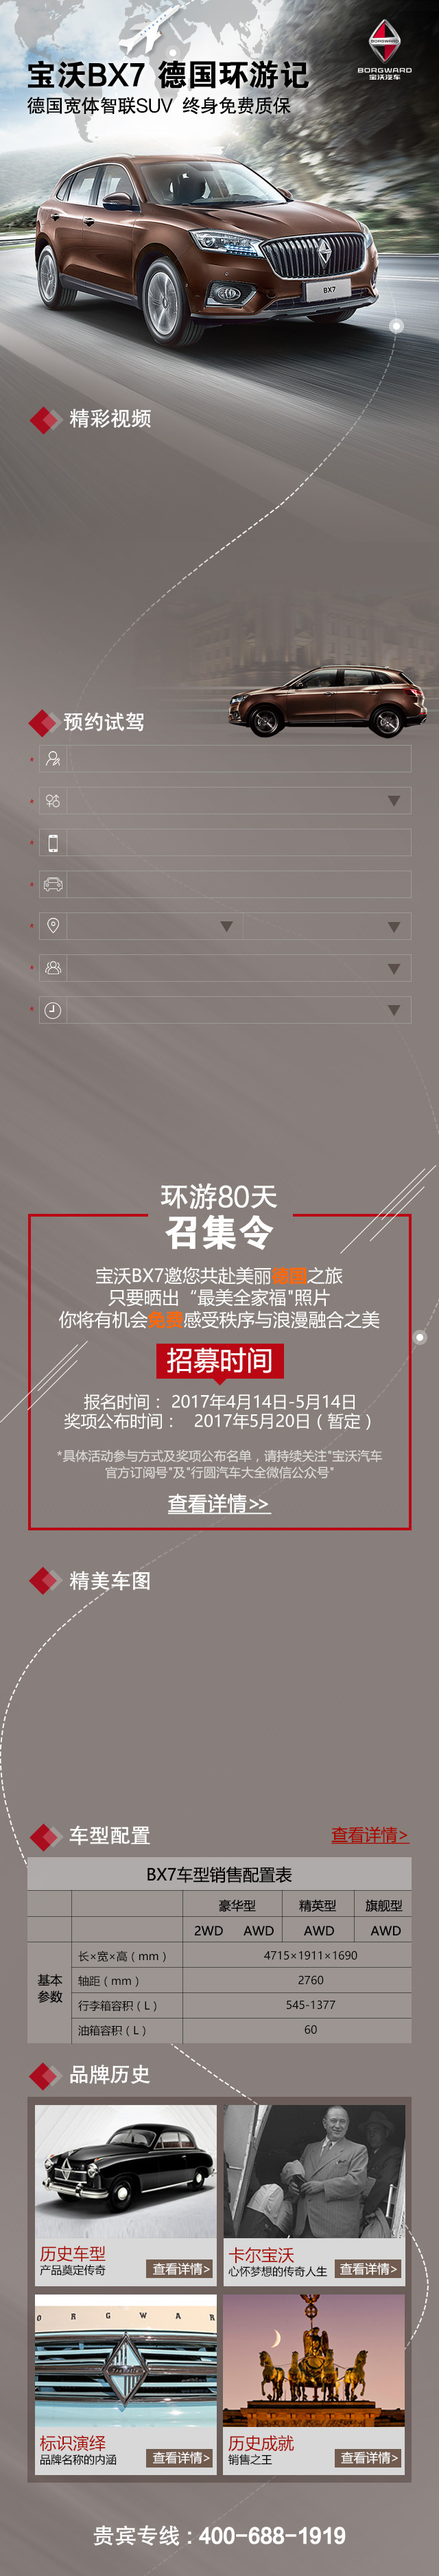
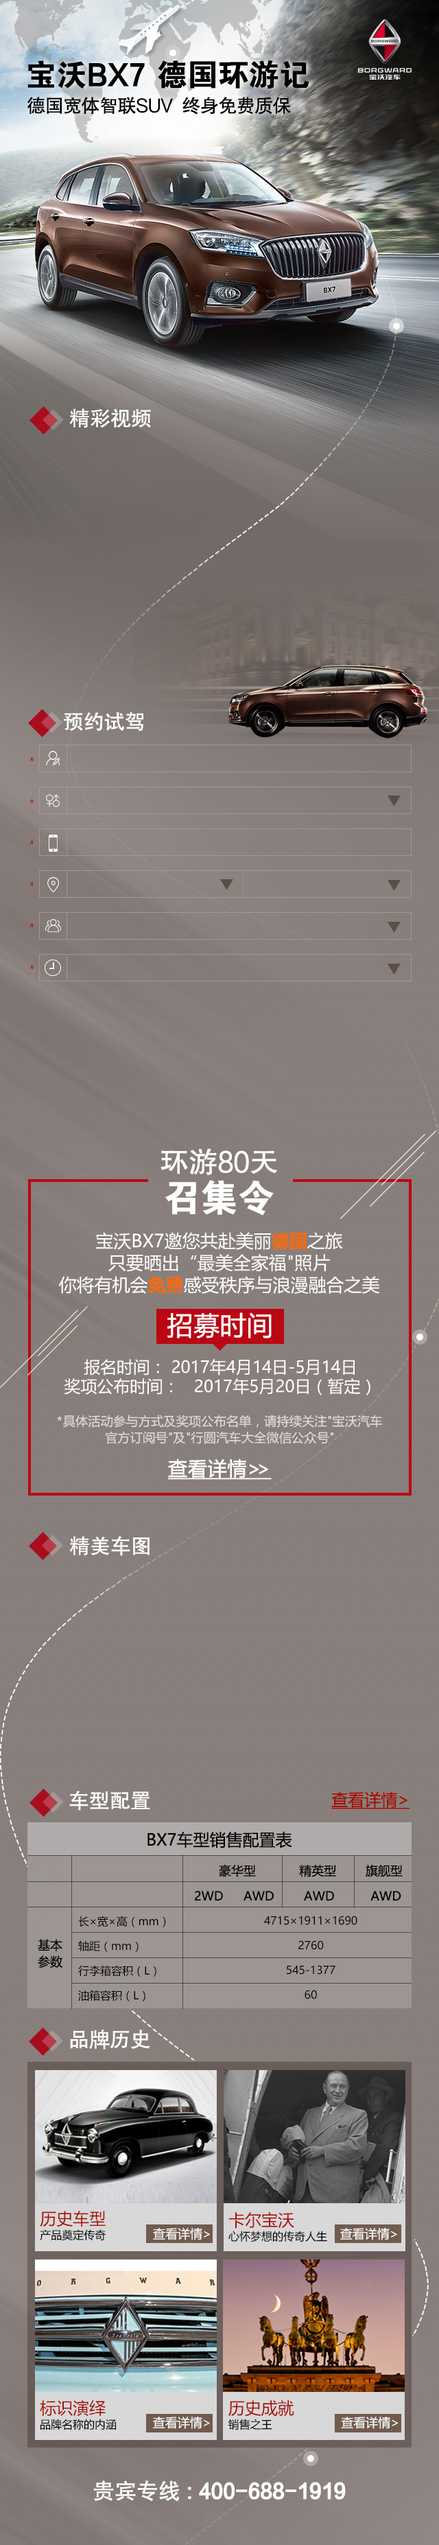
更新

diff --git a/borgwardbx7/bwo_wap.html b/borgwardbx7/bwo_wap.html
@@ -14,13 +14,13 @@
     <script src="mb/js/jquery-1.10.2.min.js" type="text/javascript"></script>
     <script src="mb/js/adaptational.js" type="text/javascript"></script>
     <script type="text/javascript" src="mb/js/swiper.jquery.min.js"></script>
-    <!-- <script type="text/javascript" src="pc/js/login.js"></script>  -->
+    <script type="text/javascript" src="pc/js/login.js"></script> 
 </head>
 
 <body>
 <div class="content">
     <div class="cont01">
-        <a>进入官网 > </a>
+        <a href="http://www.marketing-borgward.com/2017/bx720170220/">进入官网 > </a>
         <h2>贵宾专线：400-688-1919</h2>
         <div class="ewm">
             <dl>
@@ -45,48 +45,43 @@
     <!-- 注册 -->
     <div class="cont03">
         <ul>
-            <li><input type="text" placeholder="请填写姓名"></li>
+            <li><input name="name" type="text" placeholder="请填写姓名"></li>
             <li>
                 <select>
-                    <option>女</option>
-                    <option>男</option>
+                    <option name="sexId" value="2">女</option>
+                    <option name="sexId" value="1" checked>男</option>
                 </select>
             </li>
-            <li><input type="text" placeholder="请填写手机"></li>
-            <li>
-                <select>
-                    <option>请选择车类型</option>
-                </select>
-            </li>
+            <li><input type="text" name="phone" type="text" placeholder="请填写手机"></li>
             <li>
                 <span>
-                    <select>
+                    <select id="province" name="provinceId">
                         <option>请选择省份</option>
                     </select>
                 </span>
                 <span>
-                    <select>
+                    <select id="city" name="cityId">
                         <option>请选择城市</option>
                     </select>
                 </span>
             </li>
             <li style="margin-top:-0.1rem">
-                <select>
+                <select id="dealer" name='dealer'>
                     <option>请选择经销商</option>
                 </select>
             </li>
             <li>
-                <select>
+                <select id="buycartime" name="bytime">
                     <option>请选择时间</option>
                 </select>
             </li>
         </ul>
-        <p><input type="checkbox"><i>*</i>我已阅读并接受汽车大全隐私条款：<br/>您的个人资料有可能会提交至厂商的授权经销商或汽车大全客服，与您进一步沟通试驾、购车等事宜。</p>
+        <p><input checked type="checkbox"><i>*</i>我已阅读并接受汽车大全隐私条款：<br/>您的个人资料有可能会提交至厂商的授权经销商或汽车大全客服，与您进一步沟通试驾、购车等事宜。</p>
         <div class="btns">确认提交 > </div>
     </div>
     <!-- 80天召集令 -->
     <div class="cont04">
-        <a></a>
+        <a href="http://mp.weixin.qq.com/s/utGw59-aL1k5NYDGS08nFA"></a>
     </div>
     <!-- 精美车图 -->
     <div class="cont05">
@@ -110,10 +105,10 @@
     <!-- 品牌历史 -->
     <div class="cont07">
         <ul>
-            <li><a></a></li>
-            <li><a></a></li>
-            <li><a></a></li>
-            <li><a></a></li>
+            <li><a href="http://www.borgward.com.cn/baowo1"></a></li>
+            <li><a href="http://www.borgward.com.cn/brand_personage"></a></li>
+            <li><a href="http://www.borgward.com.cn/brand_ideas"></a></li>
+            <li><a href="http://www.borgward.com.cn/brand_success"></a></li>
         </ul>
     </div>
 </div>
@@ -132,6 +127,235 @@
         prevButton: '.swiper-button-prev'
     });
     //end by song
+    var ymurl = "https://xy.qichedaquan.com";  
+    $.getJSON(ymurl+"/medias/public/index.php/port/Bwuserbx7/Ltbuycartime", {buycartime:1}, function(end){ //循环输出，并追加到购买时间
+        //console.log(end);
+        $.each(end,function(id,val){ 
+            var option_html = '<option value='+val.id+'>'+val.timename+'</option>';
+            $("#buycartime").append(option_html);
+        });
+         
+    });
+    
+    $(".btns").click(function(){
+        //名字不为空
+        var name = $("input[name='name']").val();
+        if(name == "" || name == "姓名" ){
+            alert("请输入姓名");
+            $("input[name='name']").focus();
+            return false;
+        }
+        if (!name.match(/^([\u4E00-\u9FA5]{2,4}$)|(^[a-zA-Z]{1,8}$)/)){ 
+            alert("抱歉，姓名需要输入2-4位汉字或八个英文字母");
+            return false;
+        }
+        //性别，必选
+        var sex = $("input[name='sexId']:checked").val();
+      
+        //手机号验证
+        var phone = $("input[name='phone']").val();
+        if (phone == "" || phone == "手机号") { 
+            alert("手机号码不能为空！");  
+           // $("input[name='phone']").focus(); 
+            return false; 
+        }  
+        if (!phone.match(/^(((1[3|5|7|8][0-9]{1}))+\d{8})$/)) { 
+            alert("手机号码格式不正确！");  
+            //$("input[name='phone']").focus(); 
+            return false; 
+        }
+      
+
+        //省，必选
+        var province = $("select[name='provinceId']").val();
+        //console.log(province);
+        if(province == "0"){
+            alert("请选择省份");
+           // $("select[name='provinceId']").focus();
+            return false; 
+        }
+        //市，必选
+        var city = $("select[name='cityId']").val(); 
+        if(city == "0"){
+            alert("请选择城市");
+           // $("select[name='cityId']").focus();
+            return false; 
+        }
+        //经销商，必选
+        var dealer = $("select[name='dealer']").val(); 
+        if(dealer == "0"){
+            alert("请选择经销商");
+            //$("select[name='dealer']").focus();
+            return false; 
+        }
+        //购买时间
+        var buycartime = $("#buycartime").val();
+         if(buycartime == "0"){
+            alert("请选择购买时间");
+            //$("select[name='dealer']").focus();
+            return false; 
+        }
+        var dealer_name = province+","+city+","+dealer;
+        //
+        var fromwh = $("input[name='fromwh']").val();
+       // console.log(fromwh);
+        var encrystr = $("input[name='encrystr']").val();
+        $.getJSON(ymurl+"/medias/public/index.php/port/Bwuserbx7/Comreg", {buycartime:buycartime, username:name,thesex:sex,numberphone:phone,dealer:dealer_name,model:'66',key:encrystr,fromwh:fromwh,pjid:'36'}, function(json){ 
+            //console.log(json);
+            if(jQuery.type(json)=="string"){
+                var json = eval('('+json+')'); //字符串转为json格式
+            } 
+            alert(json.msg); 
+            if(json.start=='2003'){
+                $("input[name='name']").val("");
+                $("input[name='phone']").val("");
+                return;
+                //信息同步到宝沃bx7
+                 var provincename = $("select[name='provinceId']").find("option:selected").text(); //获取省份名称
+                var cityname = $("select[name='cityId']").find("option:selected").text(); //获取城市名称
+                var dealername =  $("select[name='dealer']").find("option:selected").text(); //获取经销商名称
+                var carname = 'BX7'; //车型名称 
+                $.ajax({
+                    type:"POST",
+                    url:ymurl+"/201704/borgwardbx7/bw5act.php",
+                    data:{name:name,sex:newsex,tel:phone,province:provincename,city:cityname,dealer_name:dealername,car_name:carname,media_id:'48',activity_id:124},
+                    dataType:'json',
+                    success:function(end){
+                        console.log(1);
+                        //console.log(end);
+                    },
+                    error:function(err){
+                        console.log(2);
+                       // console.log(err);
+                    }
+                })
+            }
+        })
+     
+    })       
+})
+//微信分享
+    
+    var url = ymurl+"/weixin/jssdk/wx_token.php";
+    $.post(url,function(msg){
+        if(msg.start == 0){ 
+            return alert(msg.message);
+        }
+        
+        var title ='宝沃BX5撼世登场'; // 分享标题
+        var link =ymurl+'/201703/borgwardbx5';
+        var desc = '宝沃BX5全新上市'; // 分享描述
+        var imgUrl = ymurl+'/201703/borgwardbx5/images/sharewx.jpg'; 
+        var wx_appId = msg.appId; 
+        var wx_timestamp = msg.timestamp;
+        var wx_nonceStr = msg.nonceStr;
+        var wx_signature = msg.signature;
+        
+                /*
+             * 注意：
+             * 1. 所有的JS接口只能在公众号绑定的域名下调用，公众号开发者需要先登录微信公众平台进入“公众号设置”的“功能设置”里填写“JS接口安全域名”。
+             * 2. 如果发现在 Android 不能分享自定义内容，请到官网下载最新的包覆盖安装，Android 自定义分享接口需升级至 6.0.2.58 版本及以上。
+             * 3. 常见问题及完整 JS-SDK 文档地址：http://mp.weixin.qq.com/wiki/7/aaa137b55fb2e0456bf8dd9148dd613f.html
+             *
+             * 开发中遇到问题详见文档“附录5-常见错误及解决办法”解决，如仍未能解决可通过以下渠道反馈：
+             * 邮箱地址：weixin-open@qq.com
+             * 邮件主题：【微信JS-SDK反馈】具体问题
+             * 邮件内容说明：用简明的语言描述问题所在，并交代清楚遇到该问题的场景，可附上截屏图片，微信团队会尽快处理你的反馈。
+             */
+            wx.config({
+                debug: false,
+                appId: wx_appId,
+                timestamp: wx_timestamp,
+                nonceStr: wx_nonceStr,
+                signature: wx_signature,
+                jsApiList: [
+                    // 所有要调用的 API 都要加到这个列表中
+                    'onMenuShareTimeline',//分享到朋友圈
+                    'onMenuShareAppMessage',//分享给朋友
+                    'onMenuShareQQ',//分享到QQ
+                    'onMenuShareQZone',//分享到QQ空间
+                    'onMenuShareWeibo'//分享到腾讯微博
+                ]
+            });
+           
+           wx.ready(function () {
+                // 在这里调用 API
+                
+                //分享到朋友圈
+                wx.onMenuShareTimeline({
+                    title:title, // 分享标题
+                    link: link, // 分享链接
+                    desc: desc, // 分享描述
+                    imgUrl:imgUrl, // 分享图标
+                    success: function () {
+                        // 用户确认分享后执行的回调函数
+                    },
+                    cancel: function () {
+                        // 用户取消分享后执行的回调函数
+                    }
+                });
+                
+                //分享到朋友
+                wx.onMenuShareAppMessage({
+                    title: title, // 分享标题
+                    desc: desc, // 分享描述
+                    link: link, // 分享链接
+                    imgUrl: imgUrl, // 分享图标
+                    type: '', // 分享类型,music、video或link，不填默认为link
+                    dataUrl: '', // 如果type是music或video，则要提供数据链接，默认为空
+                    success: function () {
+                        // 用户确认分享后执行的回调函数
+                    },
+                    cancel: function () {
+                        // 用户取消分享后执行的回调函数
+                    }
+                });
+                
+                //分享到QQ
+                wx.onMenuShareQQ({
+                    title: title, // 分享标题
+                    desc: desc, // 分享描述
+                    link: link, // 分享链接
+                    imgUrl: imgUrl, // 分享图标
+                    success: function () {
+                        // 用户确认分享后执行的回调函数
+                    },
+                    cancel: function () {
+                        // 用户取消分享后执行的回调函数
+                    }
+                });
+                
+                //分享到QQ空间
+                wx.onMenuShareQZone({
+                    title: title, // 分享标题
+                    desc: desc, // 分享描述
+                    link: link, // 分享链接
+                    imgUrl: imgUrl, // 分享图标
+                    success: function () { 
+                       // 用户确认分享后执行的回调函数
+                    },
+                    cancel: function () { 
+                        // 用户取消分享后执行的回调函数
+                    }
+                });
+                
+                //分享到腾讯微博
+                wx.onMenuShareWeibo({
+                    title: title, // 分享标题
+                    desc: desc, // 分享描述
+                    link: link, // 分享链接
+                    imgUrl: imgUrl, // 分享图标
+                    success: function () {
+                        // 用户确认分享后执行的回调函数
+                    },
+                    cancel: function () {
+                        // 用户取消分享后执行的回调函数
+                    }
+                });
+
+            });
+            
+    },'json')
    //百度统计
 	var _hmt = _hmt || [];
 	(function() {

diff --git a/borgwardbx7/mb/css/bwos.css b/borgwardbx7/mb/css/bwos.css
@@ -16,7 +16,7 @@ input:-ms-input-placeholder{
 
 .content{position:relative;background: url(../images/bigBg.jpg) no-repeat;height:93.8rem; background-size:100%;}
 .cont01{float:left;margin-top:4.625rem;font-size:0.65rem;width:14.0rem;margin-left:1.0rem;}
-.cont01 a{text-decoration: underline;}
+.cont01 a{text-decoration: underline;color:#000;}
 .cont01 h2{float:right;margin-top:6.6rem;font-size:12px;color:#fff;}
 .cont01 .ewm{float:right;margin-top:7rem;;position: absolute;right:1.0rem}
 .cont01 .ewm dl{float:left; text-align: center; margin-left:0.25rem;}
@@ -37,11 +37,11 @@ input:-ms-input-placeholder{
 .cont03 li span select{padding-left:0.25rem;font-size:12px;height:1rem;width:100%;color:#fff; line-height:1rem;background: none}
 .cont03 p{font-size:12px;color:#cac6c5;padding-left:0.25rem;}
 .cont03 p i{color:#f00}
-.btns{float:left;width:13.25rem;margin-top:0.35rem;font-size:0.75rem;line-height:1.125rem;height:1.125rem;margin-left:0.375rem; background: #ba0714; text-align: center;color:#fff;}
-.cont04{position: absolute;top:54.15rem;width:14.0rem;margin-left:1.0rem;}
+.btns{float:left;width:13.25rem;margin-top:1.25rem;font-size:0.75rem;line-height:1.125rem;height:1.125rem;margin-left:0.375rem; background: #ba0714; text-align: center;color:#fff;}
+.cont04{position: absolute;top:53rem;width:14.0rem;margin-left:1.0rem;}
 .cont04 a{height:1.0rem;display: inline-block;margin-left:4.77rem;width:4.0rem;}
 
-.cont05{position: absolute;top:57.6rem;width:90%;margin-left:5%;}
+.cont05{position: absolute;top:56.6rem;width:90%;margin-left:5%;}
 .swiper-containers{width:100%;margin-left:auto;margin-right:0;margin-top:0.6rem;overflow:hidden;z-index:1;position:relative;}
 /*swiper*/
 .swiper-containers{width:100%;margin-left:auto;margin-right:0;margin-top:0.6rem;overflow:hidden;z-index:1;position:relative;}
@@ -52,14 +52,15 @@ input:-ms-input-placeholder{
 .swiper-pagination .swiper-pagination-bullet{background: #7a7c7b;width:5px;height:5px;text-align:center;margin:0 5px;}
 .swiper-pagination .swiper-pagination-bullet-active{background: #fff;}
 .swiper-containers .swiper-button-prev{background-image: url(../images/left.png);width:1.375rem;height:3.65rem;background-size:1.375rem 3.65rem;left:-1px;margin-top:-1.9rem;}
-.swiper-containers .swiper-button-next{background-image: url(../images/right.png);width:1.375rem;height:3.65rem;background-size:1.375rem 3.65rem;right:-2px;margin-top:-1.9rem;}
+.swiper-containers .swiper-button-next{background-image: url(../images/right.png);width:1.375rem;height:3.65rem;background-size:1.375rem 3.65rem;right:-1px;margin-top:-1.9rem;}
 
 
 .cont06{position: absolute;top:66.45rem;width:14.0rem;margin-left:1.0rem;}
 .cont06 a{display: inline-block;height:7.75rem;width:100%;}
 
-.cont07{position: absolute;top:76.5rem;width:14.0rem;margin-left:1.0rem;}
+.cont07{position: absolute;top:75rem;width:14.0rem;margin-left:1.0rem;}
 .cont07 li{width:6.95rem;float:left;height:6.95rem;}
+.cont07 li a{width:6.95rem;float:left;height:6.95rem;}
 /*.bwo{position:relative;background: url(../images/bg.jpg) no-repeat;height:76.85rem; background-size:100%;}
 .jr{position: absolute;selecttop:10.35rem; right:1.0rem;}
 .jr a{font-size:12px; text-decoration: underline;color:#c30f0f;}

diff --git a/borgwardbx7/mb/js/login.js b/borgwardbx7/mb/js/login.js
@@ -2,14 +2,8 @@
 
 $(document).ready(function(){
 	 
-	//eidt by song
-	
-	//console.log(encrystr);
-	//console.log($("body").data('encrystr'));
-	//end by song
-	var kkurl = "http://h5.qlh520.top/medias/public/index.php/port/";
-	var kkurl = "http://xy.qichedaquan.com/medias/public/index.php/port/";
-	//var kkurl = "http://localhost/medias/public/index.php/port/";
+	var kkurl = "https://xy.qichedaquan.com/medias/public/index.php/port/";
+	 
 	var proid = "34";
 	//默认状态下，将‘省’的值传入
 	$.getJSON(kkurl+"Bwuser/listdata", { han: "list",proid:proid}, function(json){
